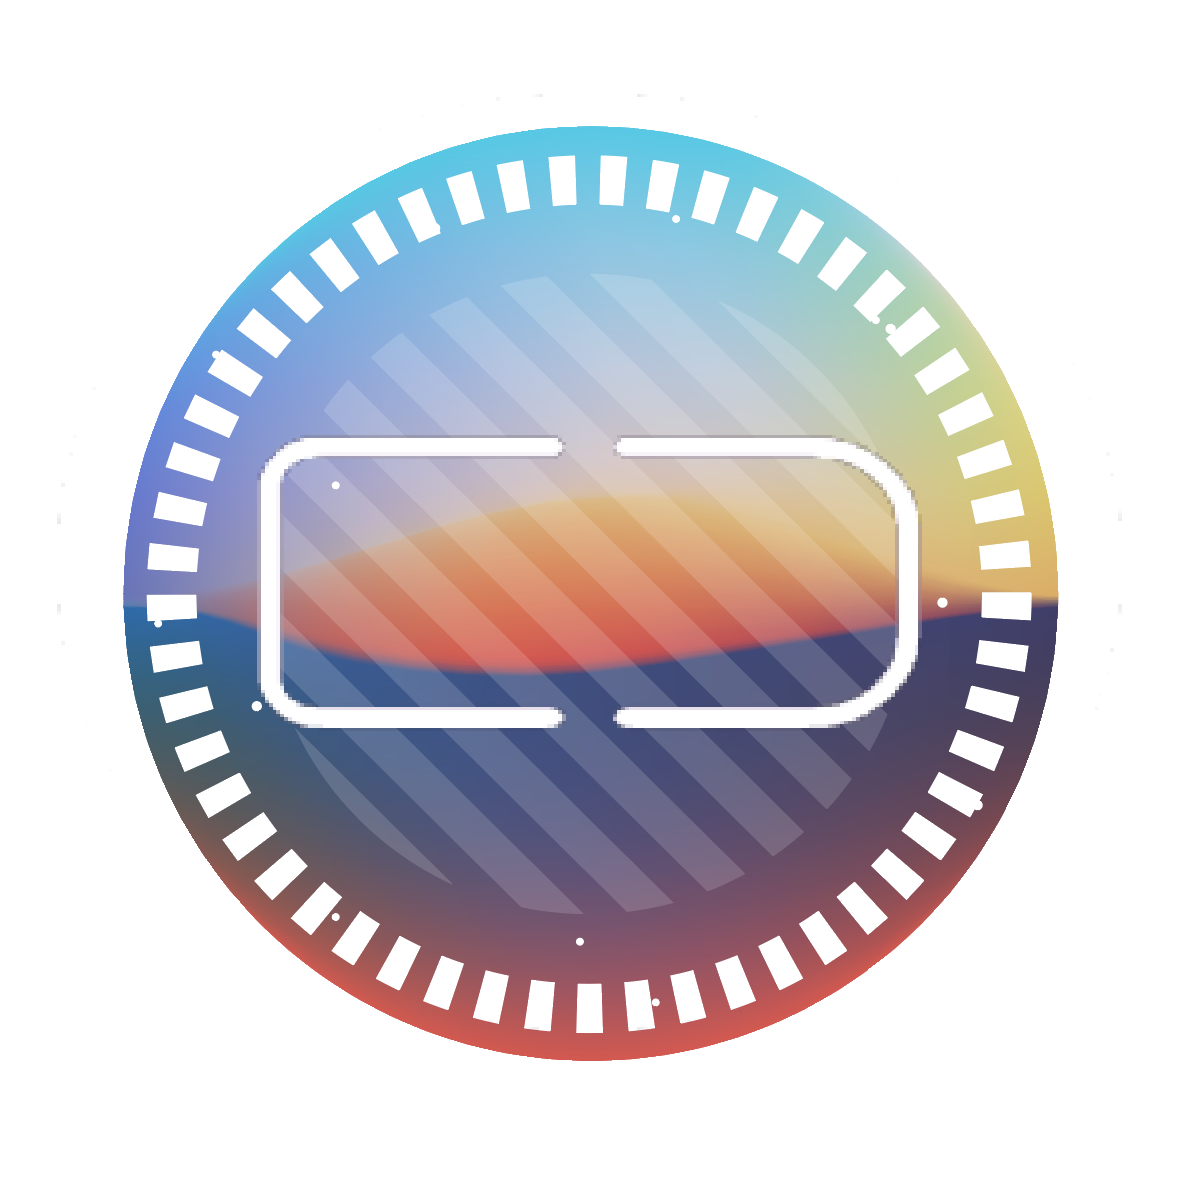
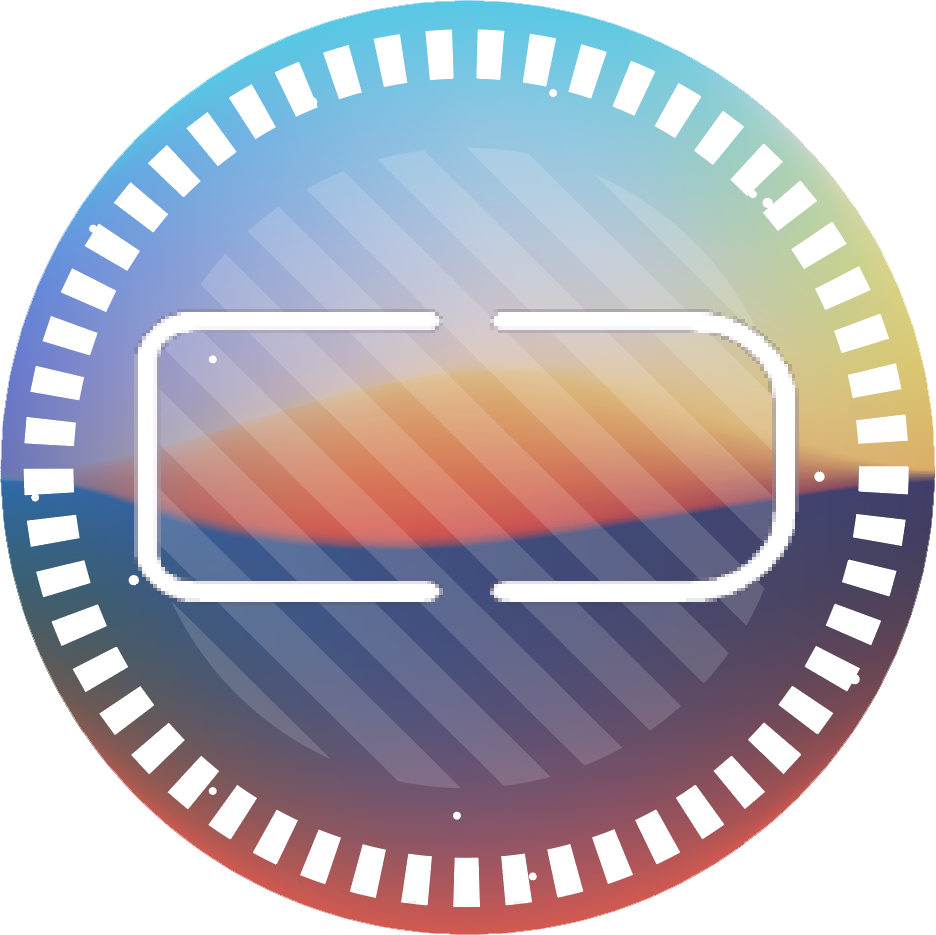
Updated profile and casual pictures

diff --git a/index.php b/index.php
@@ -44,7 +44,7 @@
   <header id="header">
     <div class="d-flex flex-column">
       <div class="profile">
-        <img src="assets/img/profile-img.jpg" alt="" class="img-fluid rounded-circle" />
+        <img src="assets/img/highrez.png" alt="" class="img-fluid rounded-circle" />
         <h1 class="text-light"><a href="index.html">Conner Dahm</a></h1>
         <div class="social-links mt-3 text-center">
           <a href="#" class="twitter"><i class="bx bxl-twitter"></i></a>
@@ -127,7 +127,7 @@
                   </li>
                   <li>
                     <i class="bi bi-chevron-right"></i>
-                    <strong>Website:</strong> <span>www.example.com</span>
+                    <strong>Website:</strong> <span><a href="https://urldefense.com/v3/__http://www.example.com__;!!CzAuKJ42GuquVTTmVmPViYEvSg!MNu_qV-v900w500G-GHg69GYygXbQCSn_bkWJ9m0ApWI9dlT7QSL8Bi-a6GFBuOYbJL5x0o2IrwT$">www.example.com</a></span>
                   </li>
                   <li>
                     <i class="bi bi-chevron-right"></i>
@@ -297,16 +297,13 @@
         <div class="section-title">
           <h2>Resume</h2>
           <p>
-            Magnam dolores commodi suscipit. Necessitatibus eius consequatur
-            ex aliquid fuga eum quidem. Sit sint consectetur velit. Quisquam
-            quos quisquam cupiditate. Et nemo qui impedit suscipit alias ea.
-            Quia fugiat sit in iste officiis commodi quidem hic quas.
+          Below you will find an executive summary of my official resume. If you wish to view and download the full version please click here!
           </p>
         </div>
 
         <div class="row">
           <div class="col-lg-6" data-aos="fade-up">
-            <h3 class="resume-title">Sumary</h3>
+            <h3 class="resume-title">Summary</h3>
             <div class="resume-item pb-0">
               <h4>Conner Dahm</h4>
               <p>
@@ -316,14 +313,14 @@
                   final, polished deliverable.</em>
               </p>
               <ul>
-                <li>Portland par 127,Orlando, FL</li>
-                <li>(123) 456-7891</li>
-                <li>alice.barkley@example.com</li>
+                <li>4907 Rive Ave, Newport Beach, CA</li>
+                <li>(650) 996-8617</li>
+                <li>dahmc@uci.edu</li>
               </ul>
             </div>
 
             <h3 class="resume-title">Education</h3>
-            <div class="resume-item">
+            <!-- <div class="resume-item">
               <h4>Master of Fine Arts &amp; Graphic Design</h4>
               <h5>2015 - 2016</h5>
               <p><em>Rochester Institute of Technology, Rochester, NY</em></p>
@@ -332,64 +329,72 @@
                 quisquam iusto autem sit. Ea vero voluptatum qui ut
                 dignissimos deleniti nerada porti sand markend
               </p>
-            </div>
+            </div> -->
             <div class="resume-item">
-              <h4>Bachelor of Fine Arts &amp; Graphic Design</h4>
-              <h5>2010 - 2014</h5>
-              <p><em>Rochester Institute of Technology, Rochester, NY</em></p>
+              <h4>Bachelor of Science - Mechanical Engineering</h4>
+              <h5>2020 - 2024</h5>
+              <p><em>University of California Irvine, Irvine, CA</em></p>
               <p>
                 Quia nobis sequi est occaecati aut. Repudiandae et iusto quae
                 reiciendis et quis Eius vel ratione eius unde vitae rerum
                 voluptates asperiores voluptatem Earum molestiae consequatur
-                neque etlon sader mart dila
+              </p>
+            </div>
+
+            <h3 class="resume-title">Athletics</h3>
+            <div class="resume-item">
+              <h4>NCAA Division 1 Men's Volleyball</h4>
+              <h5>2020 - 2024</h5>
+              <p><em>University of California Irvine, Irvine, CA</em></p>
+              <p>
+              Immersed in nationally ranked competition with intense six-hour
+              daily workouts and practices promoting discipline and strong work
+              ethic
               </p>
             </div>
           </div>
           <div class="col-lg-6" data-aos="fade-up" data-aos-delay="100">
             <h3 class="resume-title">Professional Experience</h3>
             <div class="resume-item">
-              <h4>Senior graphic design specialist</h4>
-              <h5>2019 - Present</h5>
-              <p><em>Experion, New York, NY </em></p>
+              <h4>Founder, Principal Design Engineer</h4>
+              <h5>2018 - Present</h5>
+              <p><em>Irvine &amp; Danville, CA </em></p>
               <ul>
                 <li>
-                  Lead in the design, development, and implementation of the
-                  graphic, layout, and production communication materials
+                  Launched design firm to manufacture customized uniforms,
+                  apparel, and engraved logos for sports enthusiasts
                 </li>
                 <li>
-                  Delegate tasks to the 7 members of the design team and
-                  provide counsel on all aspects of the project.
+                  Designed unique, high-quality deliverable products based on one-
+                  on-one discussions with clients
                 </li>
                 <li>
-                  Supervise the assessment of all graphic materials in order
-                  to ensure quality and accuracy of the design
+                  Produced consumer goods on contract leveraging 3rd party and
+                  personal CAD, laser, and 3D printer equipment
                 </li>
                 <li>
-                  Oversee the efficient use of production project budgets
-                  ranging from $2,000 - $25,000
+                  Lead educational workshops and private instruction on high-end
+                  manufacturing equipment, while serving as lead technician for
+                  manufacturing equipment
                 </li>
               </ul>
             </div>
             <div class="resume-item">
-              <h4>Graphic design specialist</h4>
-              <h5>2017 - 2018</h5>
-              <p><em>Stepping Stone Advertising, New York, NY</em></p>
+              <h4>Mechanical Design Engineer</h4>
+              <h5>2020 - 2022</h5>
+              <p><em>University of California Irvine, Irvine, CA</em></p>
               <ul>
                 <li>
-                  Developed numerous marketing programs (logos,
-                  brochures,infographics, presentations, and advertisements).
+                  Created SolidWorks part files of all components for assembly of
+                  working electric guitar
                 </li>
                 <li>
-                  Managed up to 5 projects or tasks at a given time while
-                  under pressure
+                  Fabricated electric guitar employing additive and subtractive
+                  manufacturing techniques along with CAD software
                 </li>
                 <li>
-                  Recommended and consulted with clients on the most
-                  appropriate graphic design
-                </li>
-                <li>
-                  Created 4+ design presentations and proposals a month for
-                  clients and account managers
+                  Applications: SolidWorks,AutoCAD, Adobe Illustrator, 
+                  Adobe Photoshop, CorelDRAW, TinkerCAD
                 </li>
               </ul>
             </div>
